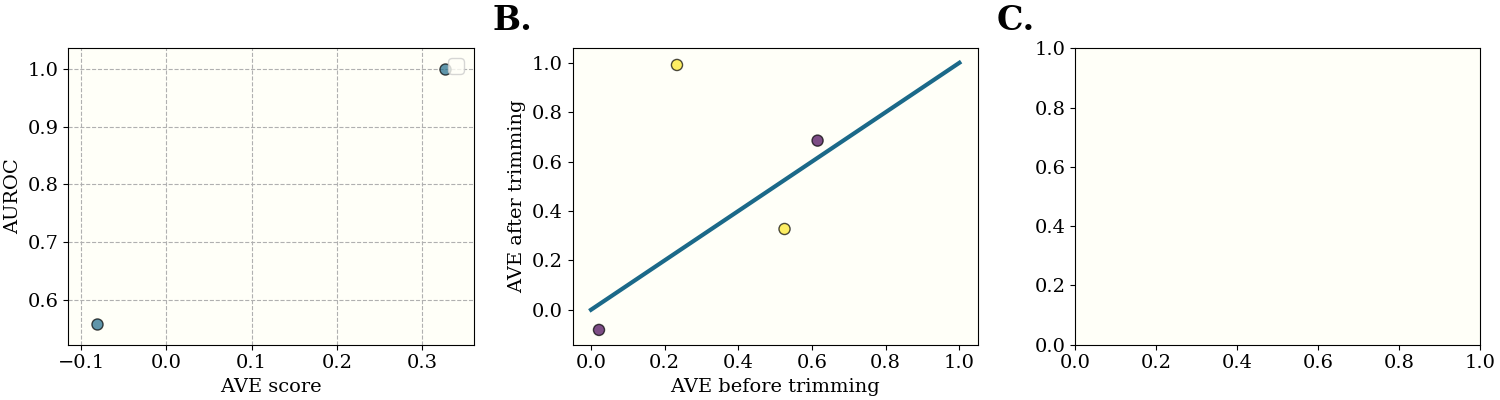
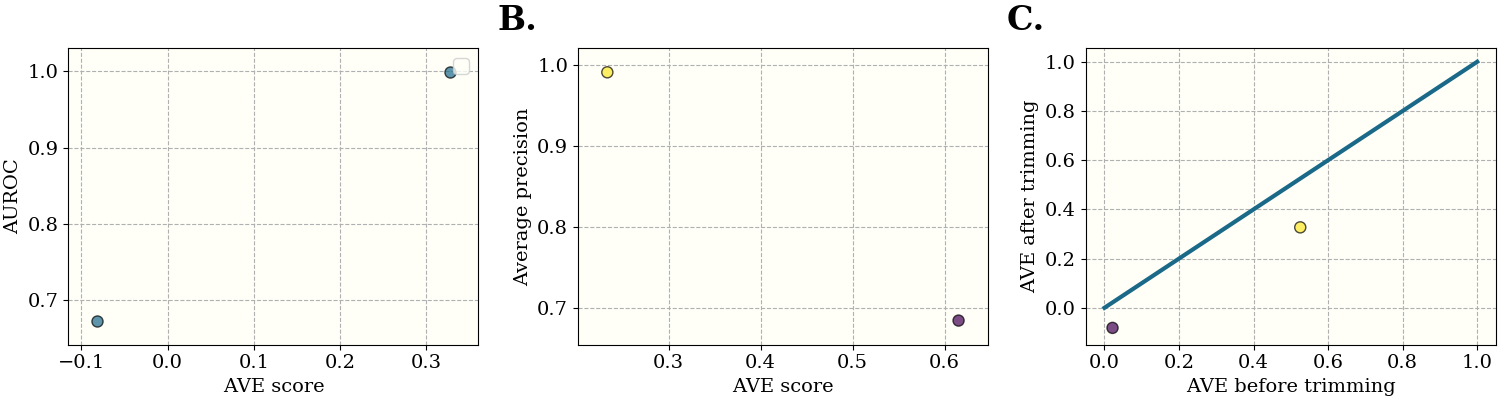
new replicate AVE approach

diff --git a/code/replicate_AVE_figures.py b/code/replicate_AVE_figures.py
@@ -58,7 +58,7 @@ fig, ax = plt.subplots(1,3)
 fig.set_figheight(4)
 fig.set_figwidth(15)
 
-ax[0].scatter(aves_after_trim, auroc_after_trim, alpha=utils.ALPHA)
+ax[0].scatter(aves_after_trim, auroc_before_trim, alpha=utils.ALPHA)
 ax[0].set_xlabel('AVE score')
 ax[0].set_ylabel('AUROC')
 ax[0].grid()
@@ -70,11 +70,11 @@ ax[1].set_ylabel('Average precision')
 ax[1].grid()
 utils.plot_fig_label(ax[1], 'B.')
 
-ax[1].scatter(aves_before_trim, aves_after_trim, c=targets, alpha=utils.ALPHA)
-ax[1].plot([0,1],[0,1])
-ax[1].set_xlabel('AVE before trimming')
-ax[1].set_ylabel('AVE after trimming')
-ax[1].grid()
+ax[2].scatter(aves_before_trim, aves_after_trim, c=targets, alpha=utils.ALPHA)
+ax[2].plot([0,1],[0,1])
+ax[2].set_xlabel('AVE before trimming')
+ax[2].set_ylabel('AVE after trimming')
+ax[2].grid()
 utils.plot_fig_label(ax[2], 'C.')
 
 fig.savefig('./processed_data/replicate_AVE/trim.png')
